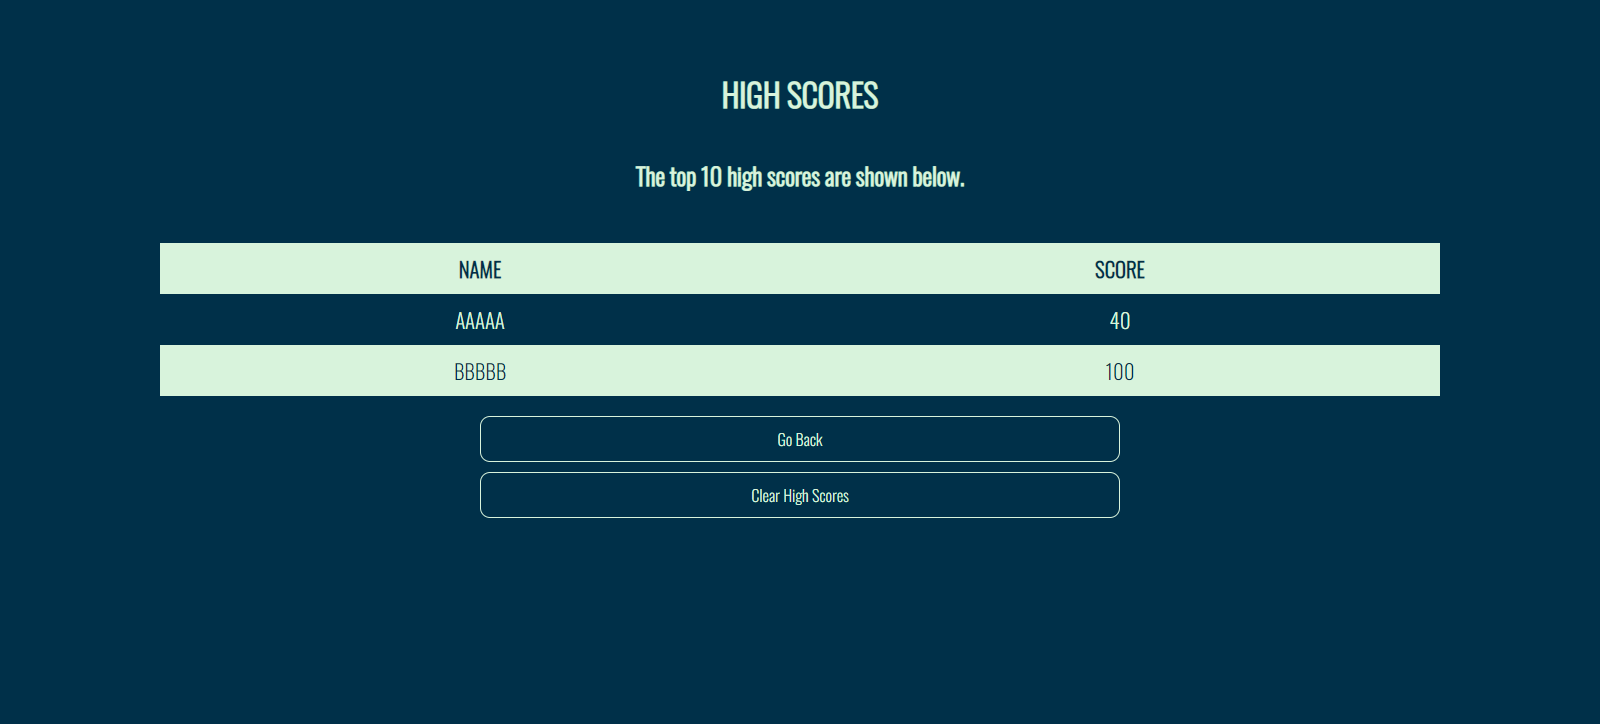
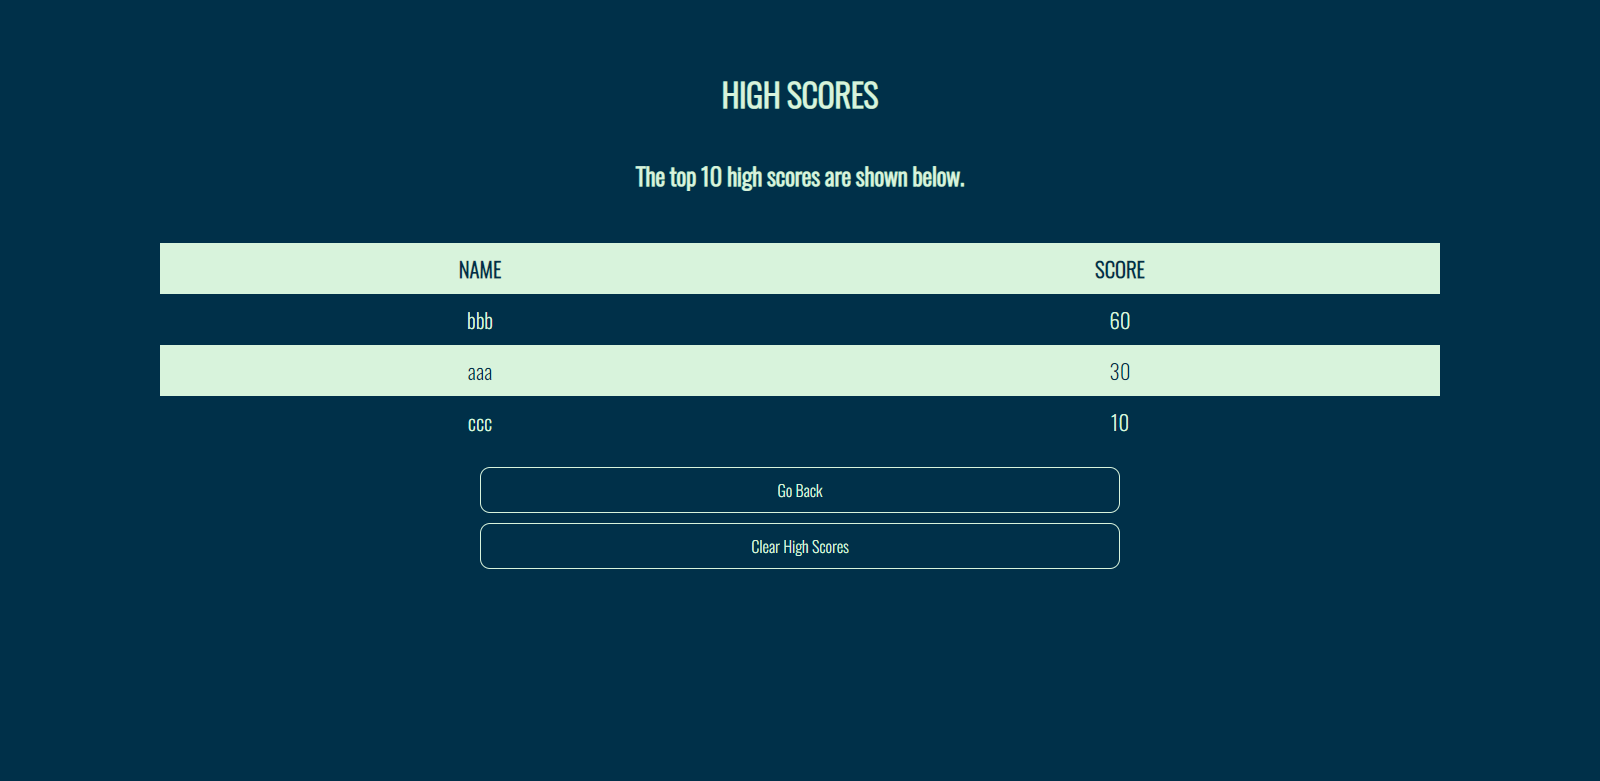
updated the insertion sort for displaying highscores and the screenshot

diff --git a/assets/js/end.js b/assets/js/end.js
@@ -57,21 +57,24 @@ if (score) {
       saveMsg.style.display = "block";
       this.value = "";
       this.disabled = true;
-      // inserting the user's name and highscore in and array and dorting it in descending order
+      // inserting the user's name and highscore in the array and sorting it in descending order
       let highscoreArr = JSON.parse(localStorage.getItem("highscoreArr"));  
       insert_flag = false;
       if (highscoreArr === null) {        
         highscoreArr = [highscoreSS];
         insert_flag = true;
       } else {
+        // No need to insert the name and highscore if it is lesser than the current highscore
         for (let index = 0; index < highscoreArr.length; index++) {
           if (highscoreSS.score_stored < highscoreArr[index].score_stored ) {
             continue;
           }
+        // else insert highscore in the array
         insert_flag = true;
         highscoreArr.splice(index, 0, highscoreSS);
         break;
         }
+        //Insert the highscore at the end if it's the lowest yet
         if (!insert_flag){
           highscoreArr.push(highscoreSS)
         }

diff --git a/assets/js/highscores.js b/assets/js/highscores.js
@@ -23,14 +23,16 @@ function displayHighScores() {
   } 
   // Inserting the name and score from local storage by creating each row and displaying them on the page
   for (let i in highscoreArr) {
-    var row = document.createElement("tr");
-    var name = document.createElement("td");
-    var score = document.createElement("td");
-    name.textContent = highscoreArr[i].name_stored;
-    score.textContent = highscoreArr[i].score_stored;
-    row.append(name);
-    row.append(score);
-    highscoretableEl.append(row);
+    if (highscoreArr[i].name_stored) {
+      var row = document.createElement("tr");
+      var name = document.createElement("td");
+      var score = document.createElement("td");
+      name.textContent = highscoreArr[i].name_stored;
+      score.textContent = highscoreArr[i].score_stored;
+      row.append(name);
+      row.append(score);
+      highscoretableEl.append(row);
+    }      
   }
 }
 

diff --git a/assets/css/quiz.css b/assets/css/quiz.css
@@ -22,7 +22,7 @@ flex-direction: column;
   font-size: 1rem;
   border: 1px solid #d8f3dc;
   border-radius: 10px; 
-  width: 100%;
+  width: 90%;
   padding: 10px;
   margin: 5px 0;
 }
